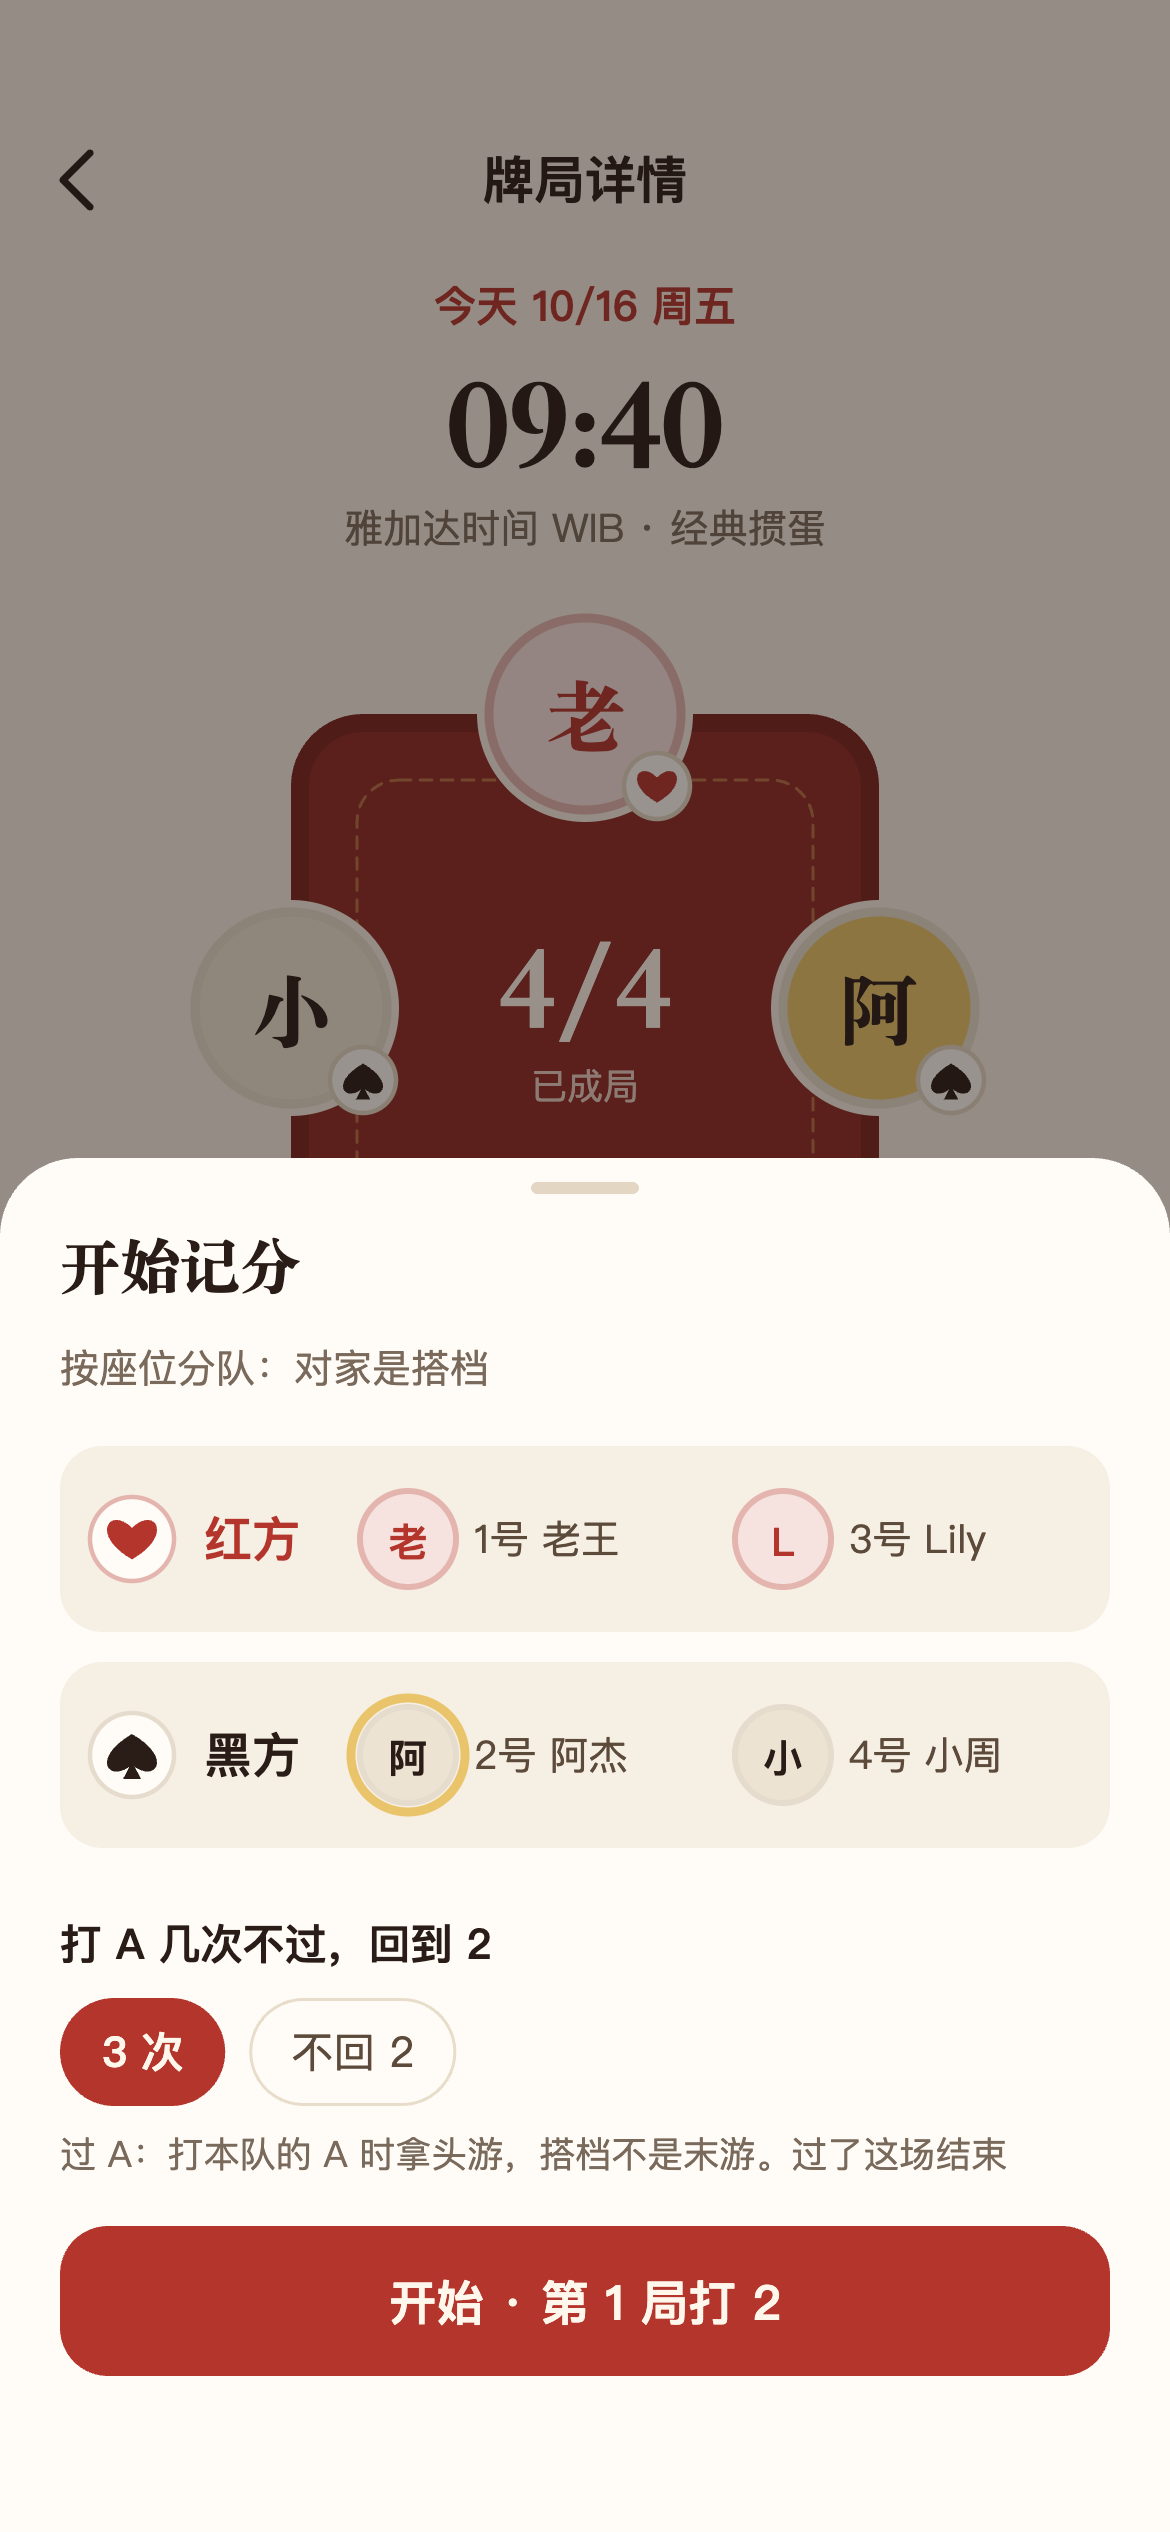
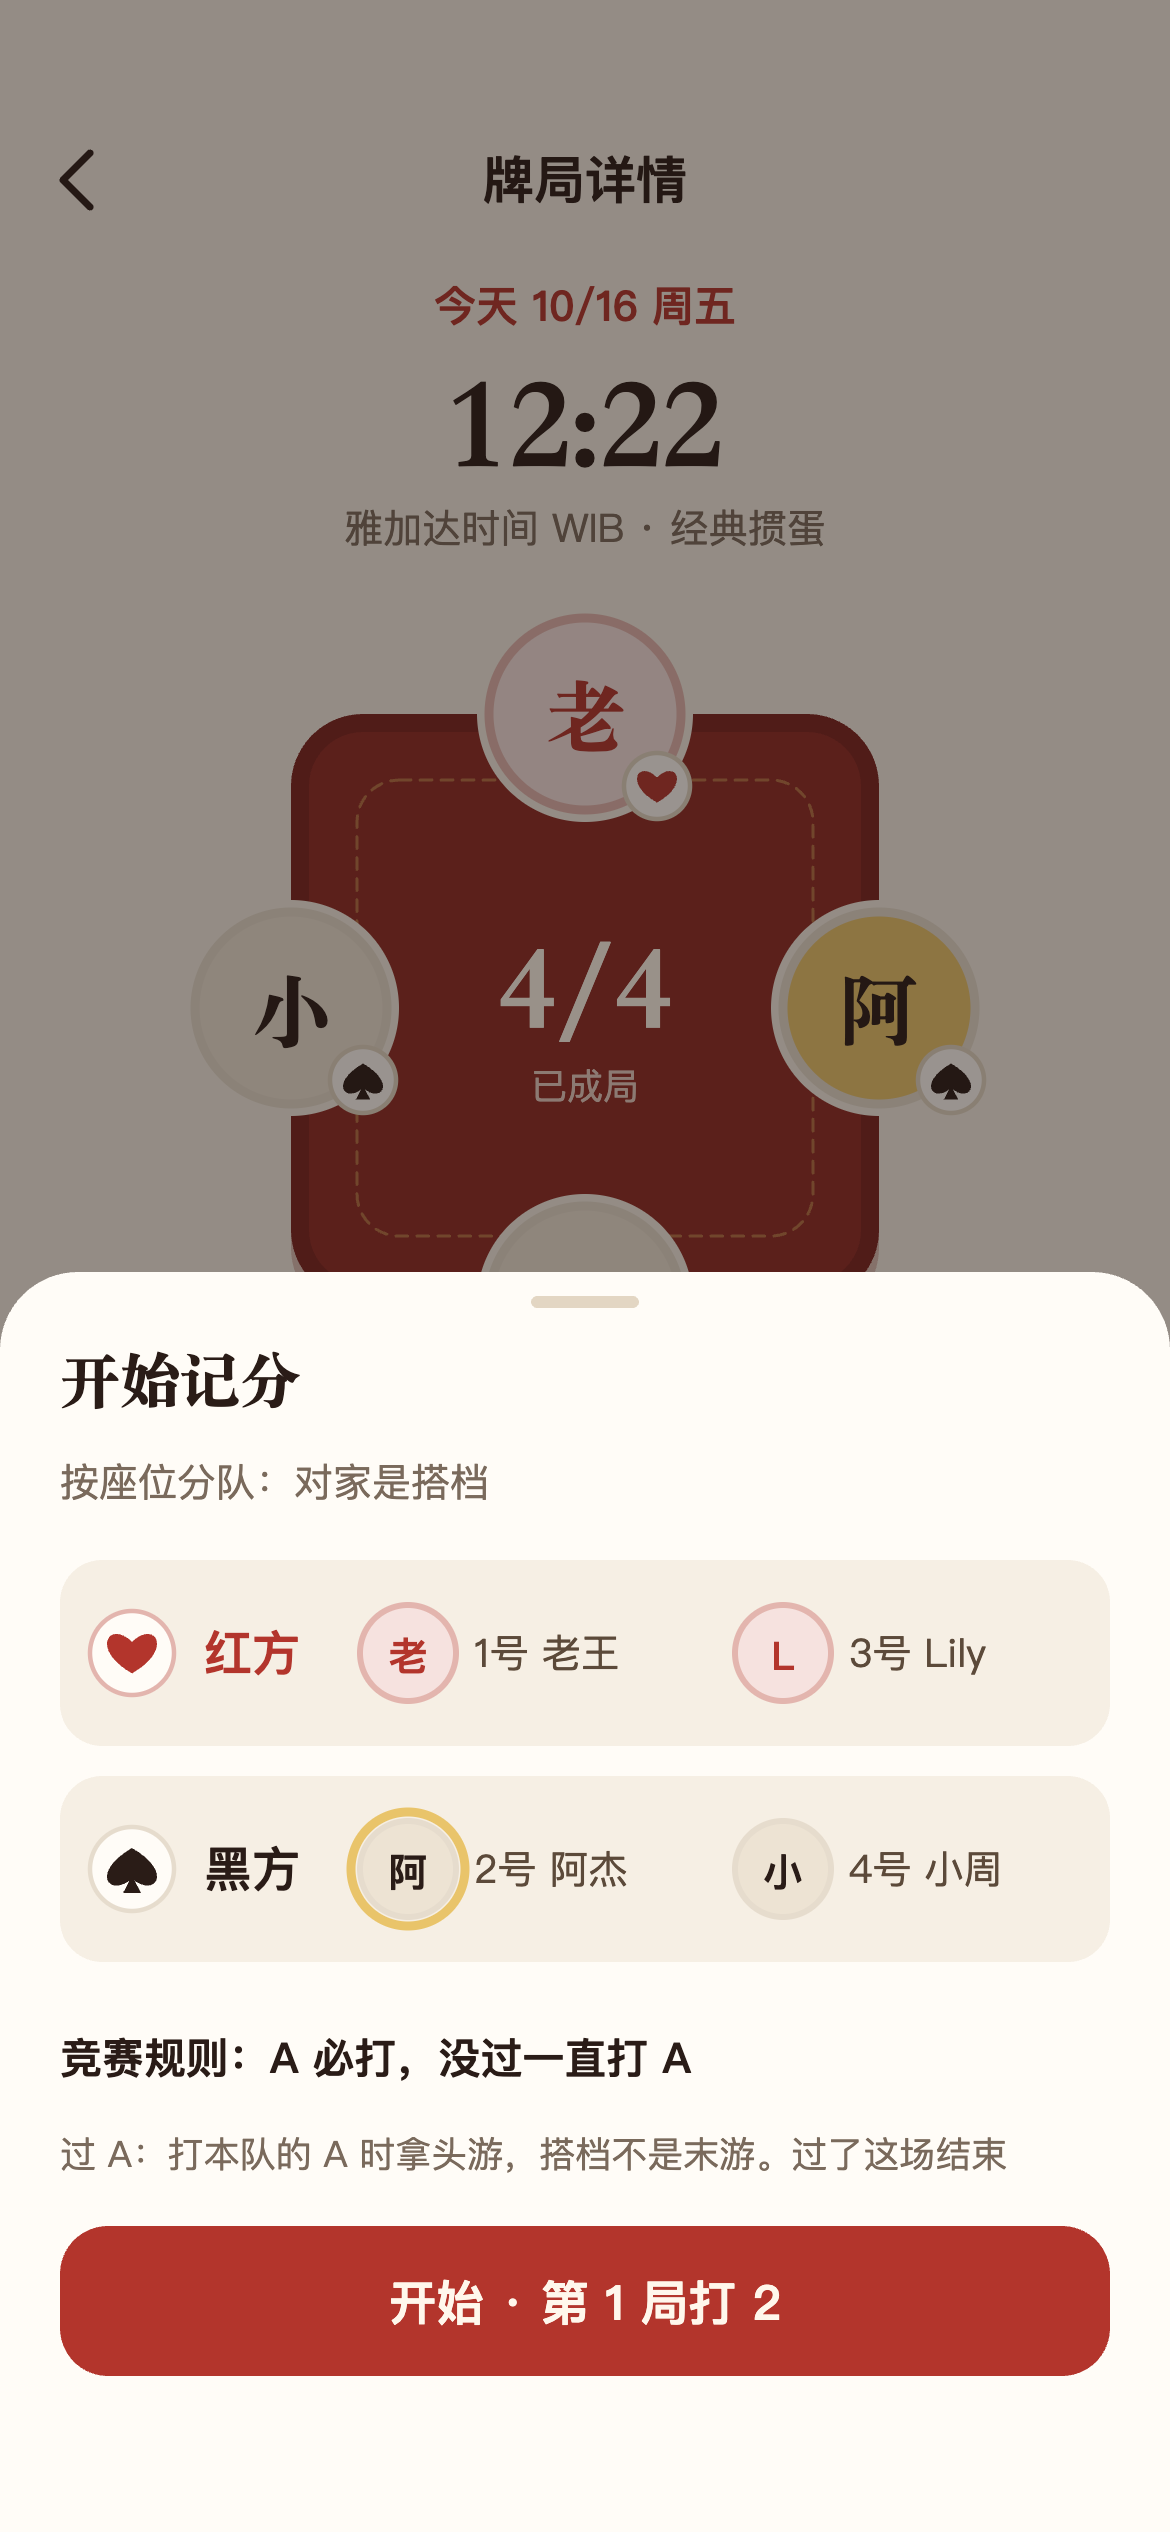
impl: #209 收尾：重截验收图 S2（那两个「打 A 几次不过回 2」的 chip 已经没了）
#205/#212 把「打 A 几次不过回 2」这条约定整个去掉了，`docs/verify/165-accept/README.md`
的「已知的两件事」第 1 条记着这张图过时、要重截。现在按 README 的「怎么跑」重跑一轮走查
（46 步全过，`tap-miss` / `tap-disabled` / `step-throw` / `shot-throw` 一条都没有），
换掉 `S2-start-sheet.png`：现在是「竞赛规则：A 必打，没过一直打 A」，没有 `start-limit` chip。

只换了这一张（其余图不在这条分支上、也不该跟着动）；README 里那一行的说明跟着改。

diff --git a/docs/verify/165-accept/README.md b/docs/verify/165-accept/README.md
@@ -49,7 +49,7 @@ cli open --project <repo>/app/minigame
 | 文件 | 设计稿 | 看点 |
 |---|---|---|
 | `S1-detail-entry.png` | S1 | 详情页「人齐了，开打就记分」入口条 |
-| `S2-start-sheet.png` | S2 | 开始记分弹层：两队成员 + 约定 + 过 A 说明 |
+| `S2-start-sheet.png` | S2 | 开始记分弹层：两队成员（按座位分队）+「竞赛规则：A 必打」+ 过 A 说明 |
 | `S3-score.png` | S3 | 记分页：级牌（打 2）、升级路线、底栏「记一局 · 第 1 局」 |
 | `S4-record-1.png` | S4 | 记一局①：谁头游（红方一行、黑方一行，同一行就是搭档） |
 | `S5-record-2-head.png` | S5 | 选了头游 → ② 头游的搭档第几 启用 |
@@ -94,9 +94,8 @@ S15 卡片全部通过**，没有一张是空页/过渡帧。几何也量过：S
 
 ## 已知的两件事
 
-1. **S2 的「打 A 几次不过回 2」马上要没了** —— #205 已经把这条约定整个去掉（仓库所有者决定
-   「3 次回 2」也不留，没过 A 就一直打 A）。所以 `S2-start-sheet.png` 里的那两个 chip
-   （`start-limit:3` / `start-limit:0`）是**改之前**的样子，改完要重跑这一张。
+1. **S2 已经重截过了**（#209 之后）：`S2-start-sheet.png` 现在是「竞赛规则：A 必打，没过一直打 A」
+   这一版，没有那两个 `start-limit` chip（#205 把「打 A 几次不过回 2」这条约定去掉了）。
 2. **真机没做**。真机那几项（翻牌流畅度 / 减少动态效果、主画布导出战报、四机同记、安卓 600 字重、
    弱网重复提交）要 `cli preview` 上传预览二维码，属于对外动作，**等仓库所有者同意再做**。
 
